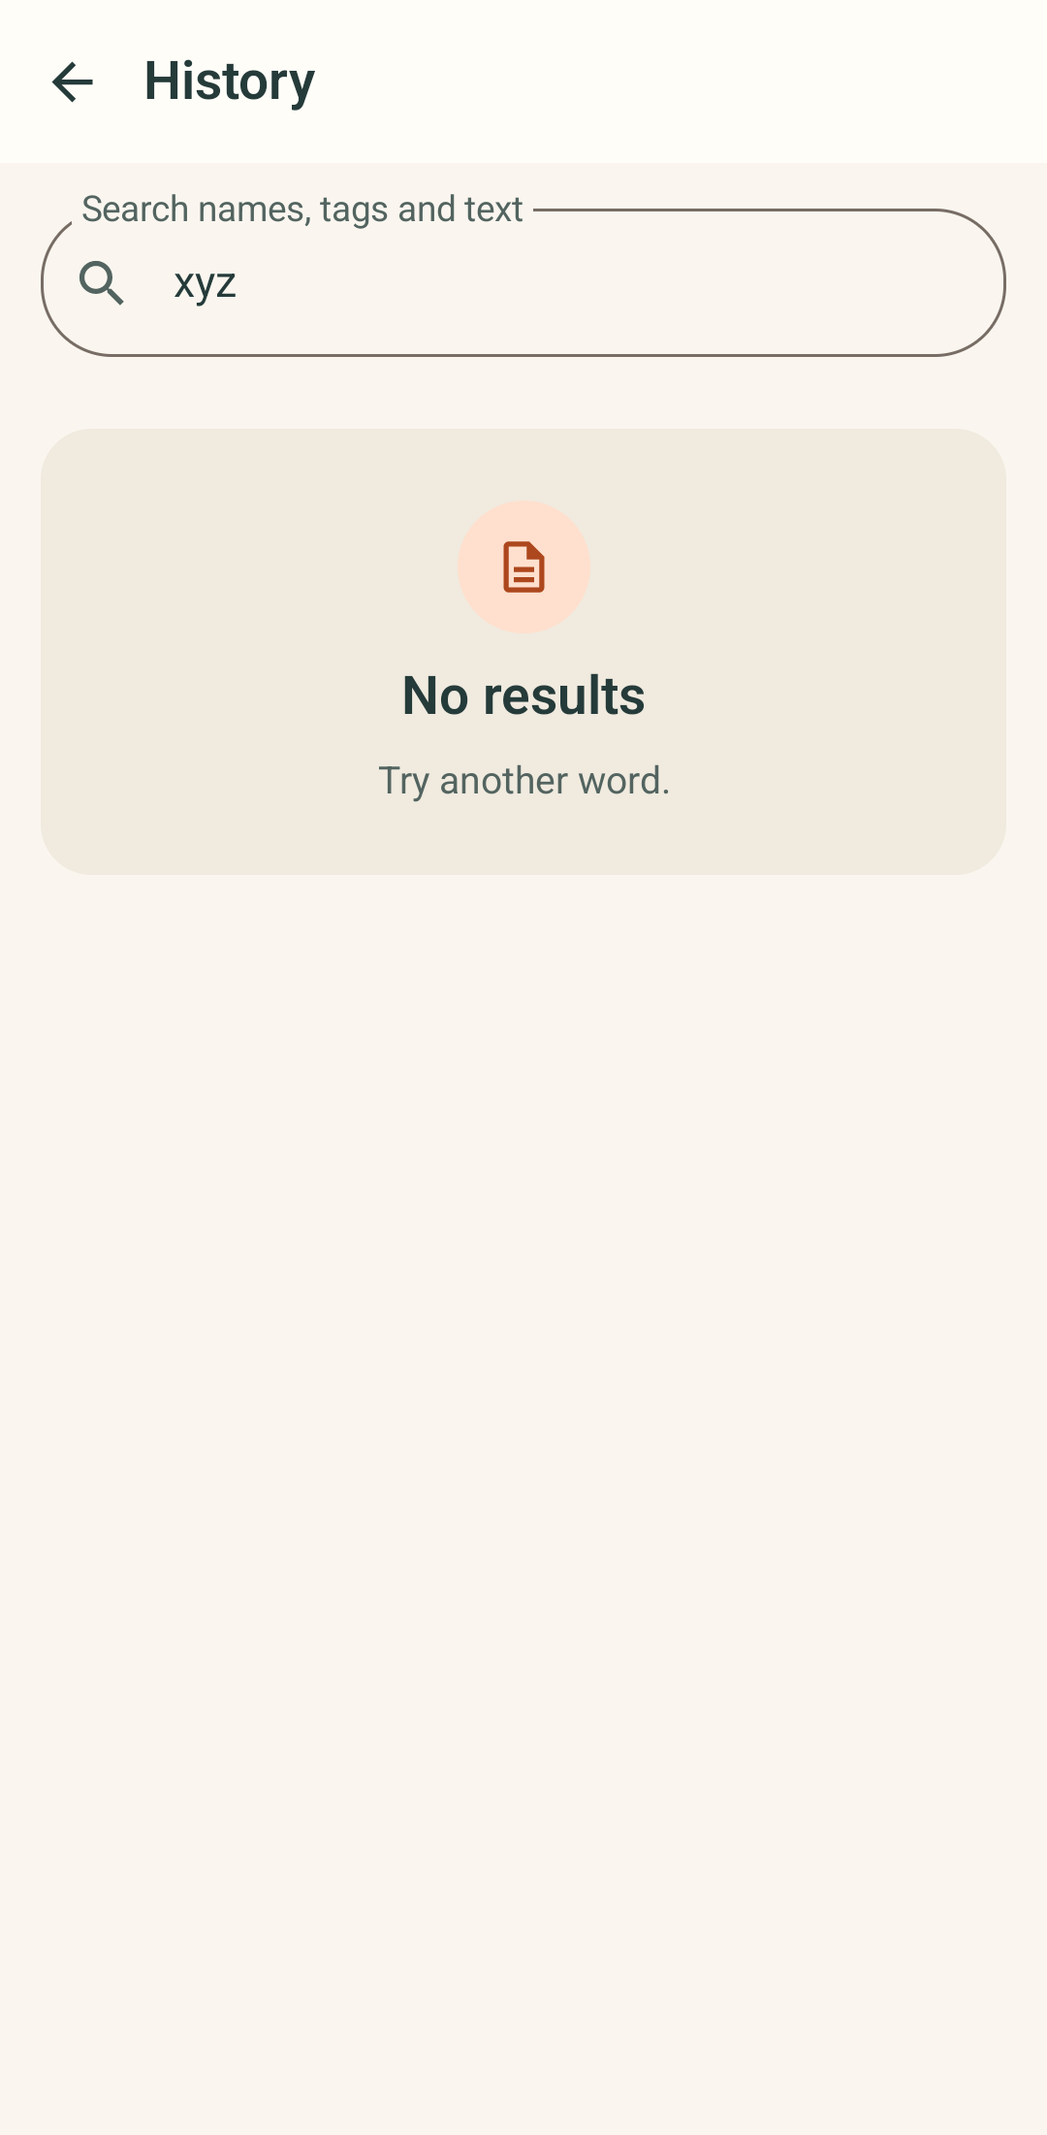
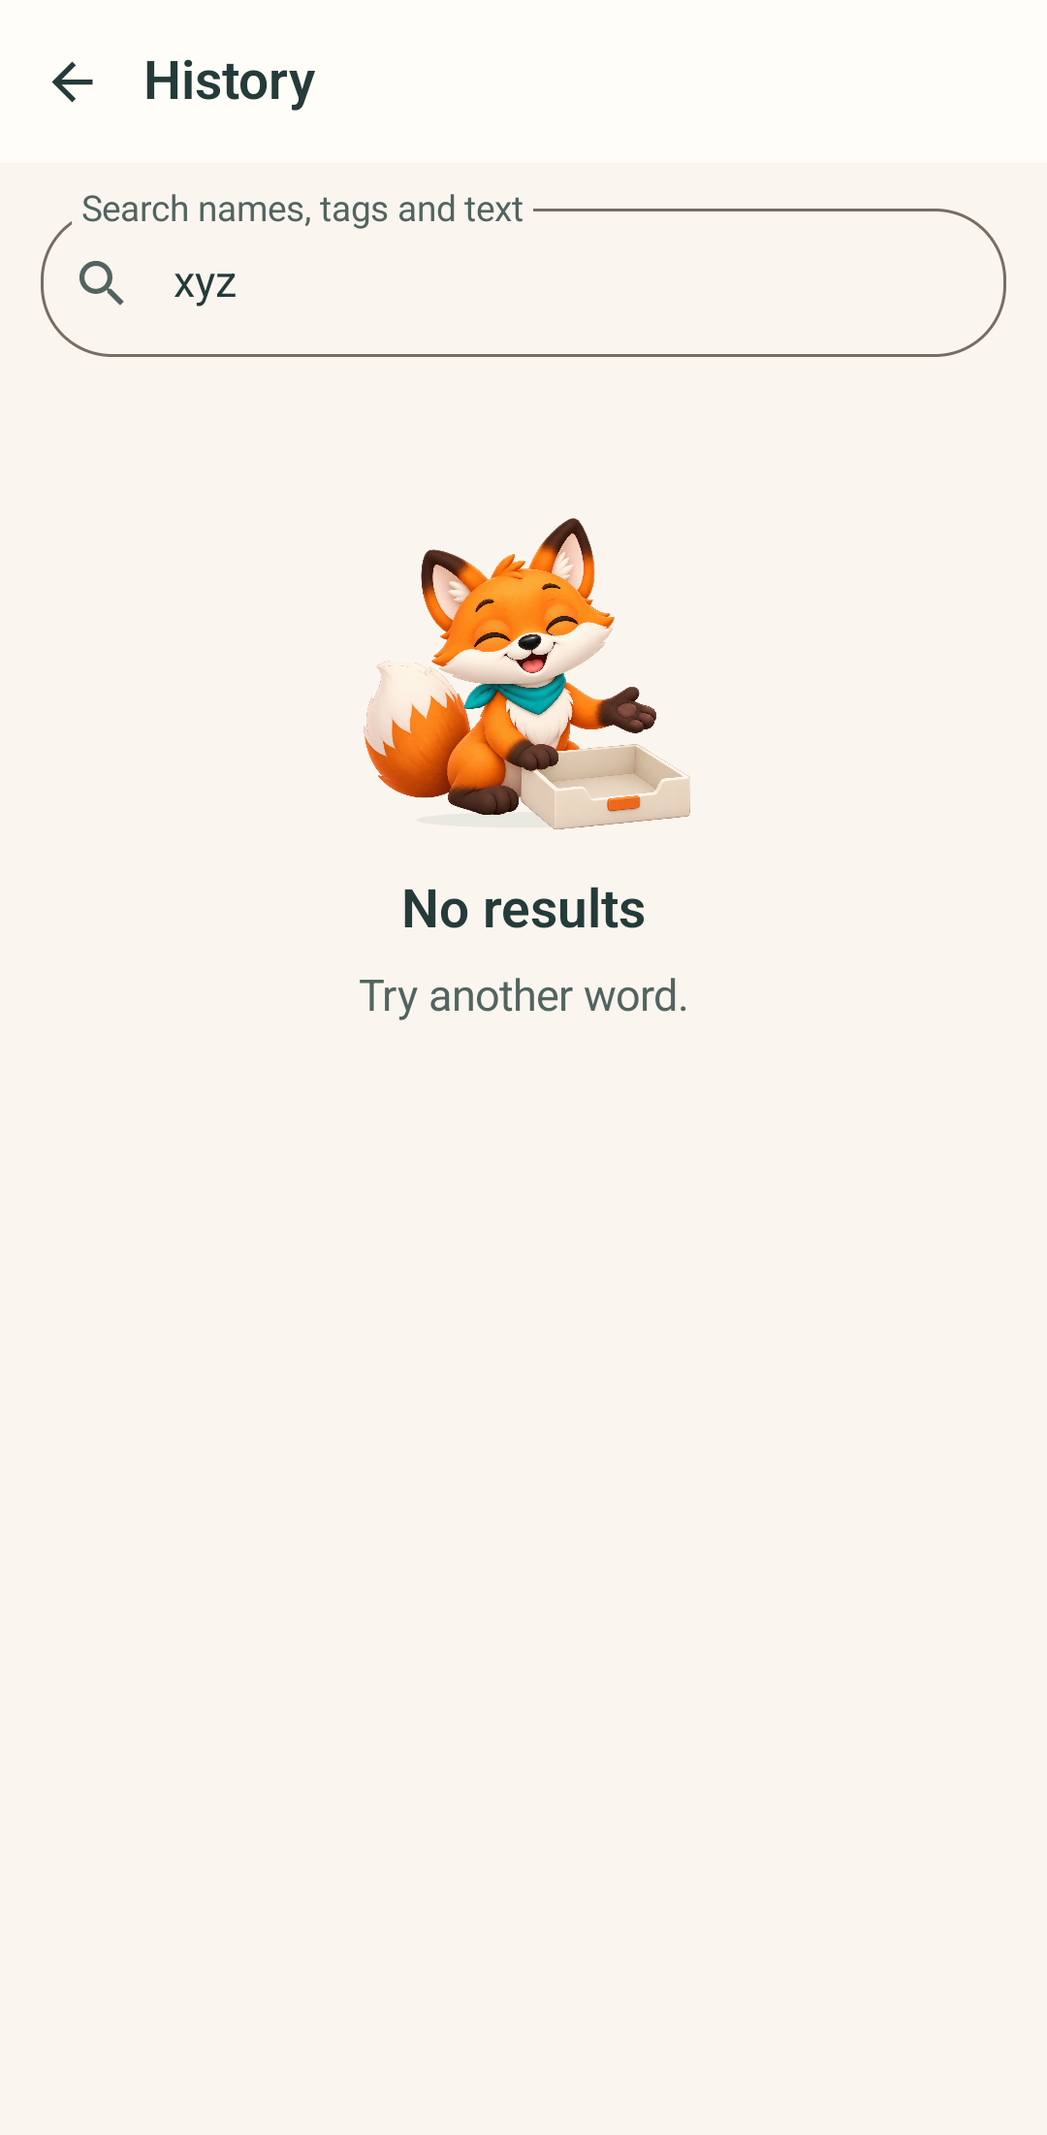
feat(history): lighten empty library and search states

Changed region(s): [[0.3361, 0.2163, 0.6722, 0.4325], [0.3667, 0.4634, 0.6417, 0.4943]]

diff --git a/docs/design/visual-recovery/evidence/review.html b/docs/design/visual-recovery/evidence/review.html
@@ -25,7 +25,7 @@
   <nav aria-label="Ir para tela">
     <a href="#home">Home</a><a href="#large-type">Fonte 200%</a><a href="#review">Revisão</a><a href="#crop">Recorte</a>
     <a href="#export">Exportação</a><a href="#progress">Progresso</a><a href="#success">Sucesso</a>
-    <a href="#onboarding">Introdução</a><a href="#ocr">OCR</a><a href="#history">Histórico</a>
+    <a href="#onboarding">Introdução</a><a href="#ocr">OCR</a><a href="#history">Histórico</a><a href="#search-empty">Busca vazia</a>
     <a href="#settings">Configurações</a><a href="#launcher">Ícone</a>
   </nav>
   <section id="home"><h2>Home com documento</h2><div class="pair"><figure><figcaption>Anterior</figcaption><img src="../../evidence/home-recent.png" alt="Home anterior"></figure><figure><figcaption>Atual</figcaption><img src="home-recent.png" alt="Home atual com raposa aprovada"></figure></div></section>
@@ -37,7 +37,8 @@
   <section id="success"><h2>Exportação concluída</h2><div class="pair"><figure><figcaption>Anterior</figcaption><img src="../../evidence/export-success.png" alt="Sucesso anterior"></figure><figure><figcaption>Atual</figcaption><img src="export-success.png" alt="Sucesso atual"></figure></div></section>
   <section id="onboarding"><h2>Introdução</h2><div class="pair"><figure><figcaption>Anterior</figcaption><img src="../../evidence/onboarding.png" alt="Introdução anterior"></figure><figure><figcaption>Atual · escanear</figcaption><img src="onboarding.png" alt="Introdução atual com raposa e folha integradas"></figure><figure><figcaption>Atual · revisar</figcaption><img src="onboarding-two.png" alt="Segunda página da introdução"></figure><figure><figcaption>Atual · guardar</figcaption><img src="onboarding-three.png" alt="Terceira página da introdução"></figure><figure><figcaption>Atual · fonte 200%</figcaption><img src="onboarding-200.png" alt="Primeira página da introdução com fonte ampliada a 200%"></figure></div></section>
   <section id="ocr"><h2>OCR em andamento</h2><div class="pair"><figure><figcaption>Anterior</figcaption><img src="../../evidence/ocr-loading.png" alt="OCR anterior"></figure><figure><figcaption>Atual</figcaption><img src="ocr-loading.png" alt="OCR atual"></figure></div></section>
-  <section id="history"><h2>Histórico</h2><div class="pair"><figure><figcaption>Anterior</figcaption><img src="../../evidence/history.png" alt="Histórico anterior"></figure><figure><figcaption>Atual</figcaption><img src="history.png" alt="Histórico atual"></figure></div></section>
+  <section id="history"><h2>Histórico</h2><div class="pair"><figure><figcaption>Anterior</figcaption><img src="../../evidence/history.png" alt="Histórico anterior"></figure><figure><figcaption>Atual</figcaption><img src="history.png" alt="Histórico atual"></figure><figure><figcaption>Biblioteca vazia</figcaption><img src="history-empty.png" alt="Biblioteca vazia sem cartão de fundo"></figure></div></section>
+  <section id="search-empty"><h2>Busca sem resultados</h2><div class="pair"><figure><figcaption>Anterior</figcaption><img src="../../evidence/search-empty.png" alt="Busca vazia anterior com cartão"></figure><figure><figcaption>Atual</figcaption><img src="search-empty.png" alt="Busca vazia atual com raposa e texto no fundo"></figure></div></section>
   <section id="settings"><h2>Configurações</h2><div class="pair"><figure><figcaption>Anterior</figcaption><img src="../../evidence/settings.png" alt="Configurações anteriores"></figure><figure><figcaption>Atual</figcaption><img src="settings.png" alt="Configurações atuais"></figure></div></section>
   <section id="launcher"><h2>Ícone em máscaras e tamanhos</h2><div class="pair"><figure><figcaption>Anterior</figcaption><img src="../../evidence/launcher-masks.png" alt="Ícone anterior em máscaras"></figure><figure><figcaption>Atual</figcaption><img src="launcher-masks.png" alt="Ícone atual em máscaras"></figure></div></section>
   <p>As demais capturas e o <a href="mascot-motion-v1.mp4">clipe da raposa</a> ficam neste diretório. Confira os limites na <a href="../VALIDATION_MATRIX.md">matriz de validação</a>.</p>

diff --git a/feature-history/src/main/java/com/soturine/replicascan/feature/history/HistoryScreen.kt b/feature-history/src/main/java/com/soturine/replicascan/feature/history/HistoryScreen.kt
@@ -54,6 +54,7 @@ import androidx.compose.ui.res.pluralStringResource
 import androidx.compose.ui.res.stringResource
 import androidx.compose.ui.semantics.contentDescription
 import androidx.compose.ui.semantics.semantics
+import androidx.compose.ui.text.style.TextAlign
 import androidx.compose.ui.text.style.TextOverflow
 import androidx.compose.ui.unit.dp
 import com.soturine.replicascan.core.common.model.ScanDocument
@@ -62,6 +63,7 @@ import com.soturine.replicascan.core.ui.component.AsyncUriImage
 import com.soturine.replicascan.core.ui.component.DocumentListItem
 import com.soturine.replicascan.core.ui.component.EmptyStateCard
 import com.soturine.replicascan.core.ui.component.ReplicaScanContent
+import com.soturine.replicascan.core.ui.component.ReplicaScanMascot
 import com.soturine.replicascan.core.ui.component.ReplicaScanMascotState
 import com.soturine.replicascan.core.ui.component.ReplicaScanPrimaryButton
 import com.soturine.replicascan.core.ui.component.ReplicaScanSecondaryButton
@@ -118,18 +120,10 @@ fun HistoryScreen(
             if (state.isLoaded && state.scans.isEmpty()) {
                 item(key = "empty") {
                     ReplicaScanContent(modifier = Modifier.padding(top = 16.dp)) {
-                        if (state.query.isBlank()) {
-                            EmptyStateCard(
-                                title = stringResource(R.string.history_empty_title),
-                                message = stringResource(R.string.history_empty_message),
-                                mascotState = ReplicaScanMascotState.Empty,
-                            )
-                        } else {
-                            EmptyStateCard(
-                                title = stringResource(R.string.history_no_results_title),
-                                message = stringResource(R.string.history_no_results_message),
-                            )
-                        }
+                        HistoryEmptyState(
+                            title = stringResource(if (state.query.isBlank()) R.string.history_empty_title else R.string.history_no_results_title),
+                            message = stringResource(if (state.query.isBlank()) R.string.history_empty_message else R.string.history_no_results_message),
+                        )
                     }
                 }
             }
@@ -156,6 +150,20 @@ fun HistoryScreen(
                 }
             }
         }
+    }
+}
+
+@Composable
+private fun HistoryEmptyState(title: String, message: String) {
+    Column(
+        modifier = Modifier.fillMaxWidth().padding(top = 28.dp, bottom = 24.dp),
+        horizontalAlignment = Alignment.CenterHorizontally,
+        verticalArrangement = Arrangement.spacedBy(12.dp),
+    ) {
+        ReplicaScanMascot(ReplicaScanMascotState.Empty, size = 136.dp)
+        Text(title, style = MaterialTheme.typography.titleLarge, textAlign = TextAlign.Center)
+        Text(message, style = MaterialTheme.typography.bodyLarge,
+            color = MaterialTheme.colorScheme.onSurfaceVariant, textAlign = TextAlign.Center)
     }
 }
 

diff --git a/app/src/androidTest/java/com/soturine/replicascan/RebrandVisualTest.kt b/app/src/androidTest/java/com/soturine/replicascan/RebrandVisualTest.kt
@@ -91,7 +91,7 @@ class RebrandVisualTest {
                                 isExporting = screen == "export-progress", message = when(screen) { "export-error" -> ExportMessage.WRITE_FAILED; "export-library-warning" -> ExportMessage.LIBRARY_UPDATE_FAILED; else -> null },
                                 exportedFiles = if (screen == "export-success" || screen == "export-library-warning") listOf(ExportedFile("Caderno de ideias.pdf", "content://fixture", "application/pdf", 1024)) else emptyList()),
                                 {}, {}, {}, {}, {}, {}, {}, {})
-                            "history", "search-empty" -> HistoryScreen(HistoryUiState(true, if (screen == "search-empty") "xyz" else "", if (screen == "history") listOf(scan) else emptyList()), {}, {}, {})
+                            "history", "history-empty", "search-empty" -> HistoryScreen(HistoryUiState(true, if (screen == "search-empty") "xyz" else "", if (screen == "history") listOf(scan) else emptyList()), {}, {}, {})
                             "detail" -> ScanDetailScreen(scan, true, {}, {}, {}, {}, {}, {})
                             "settings" -> SettingsScreen(SettingsUiState(), "", {}, {}, {}, {}, {}, {}, {})
                             "about" -> AboutScreen("candidate", {}, {})
@@ -101,7 +101,7 @@ class RebrandVisualTest {
             }
         }
         val screens = listOf("onboarding", "home-empty", "home-recent", "review", "crop", "filters", "ocr-loading", "ocr-ready", "ocr-empty",
-            "export", "export-jpg", "export-png", "export-progress", "export-error", "export-success", "export-library-warning", "history", "search-empty", "detail", "settings", "about")
+            "export", "export-jpg", "export-png", "export-progress", "export-error", "export-success", "export-library-warning", "history", "history-empty", "search-empty", "detail", "settings", "about")
         for (name in screens) {
             rule.runOnIdle { screen = name }
             // URI decoding runs on IO; allow it to complete before the capture.

diff --git a/README.md b/README.md
@@ -27,7 +27,7 @@ Não há conta, backend, sincronização ou upload obrigatório de documentos. C
 
 ## Redesign e evidência
 
-A base da v0.4.1 traz papel marfim, tinta petróleo e terracota, revisão de telas, crop com cantos independentes e exportação com nome de arquivo, progresso e recuperação persistente. O visual do ciclo anterior foi rejeitado pelo proprietário. Um novo master e sete poses baseados na raposa da v0.4.0 receberam aceite como arte estática. A pose de atenção teve patas extras corrigidas e um rig candidato com camadas independentes foi capturado no Android. A Home integra a raposa à cena de papel e prioriza Escanear inclusive com fonte 200%; a introdução apresenta três cenas abertas de folha e raposa. A exportação conecta prévia real e raposa em preparo, progresso, sucesso e erro. Revisão, recorte e filtros compartilham a luz e a profundidade do papel sem mudar os controles de edição; OCR reúne o texto selecionável em uma folha. Detalhe prioriza a página única e configurações usam grupos leves. A opção 4 foi escolhida como candidata final do ícone; animação e conjunto das telas continuam sem aceite final.
+A base da v0.4.1 traz papel marfim, tinta petróleo e terracota, revisão de telas, crop com cantos independentes e exportação com nome de arquivo, progresso e recuperação persistente. O visual do ciclo anterior foi rejeitado pelo proprietário. Um novo master e sete poses baseados na raposa da v0.4.0 receberam aceite como arte estática. A pose de atenção teve patas extras corrigidas e um rig candidato com camadas independentes foi capturado no Android. A Home integra a raposa à cena de papel e prioriza Escanear inclusive com fonte 200%; a introdução apresenta três cenas abertas de folha e raposa. A exportação conecta prévia real e raposa em preparo, progresso, sucesso e erro. Revisão, recorte e filtros compartilham a luz e a profundidade do papel sem mudar os controles de edição; OCR reúne o texto selecionável em uma folha. Histórico vazio e busca sem resultados mostram a raposa sem cartão pesado. Detalhe prioriza a página única e configurações usam grupos leves. A opção 4 foi escolhida como candidata final do ícone; animação e conjunto das telas continuam sem aceite final.
 
 Veja a [auditoria de recuperação visual](docs/design/visual-recovery/AUDIT.md), a [prancha das poses](docs/design/visual-recovery/candidates/review.html), o [clipe e as capturas Android atuais](docs/design/visual-recovery/evidence/README.md), os [novos ícones candidatos](docs/design/visual-recovery/icon-candidates/index.html), a [revisão por tela](docs/design/visual-recovery/SCREEN_REVIEW.md) e a [matriz de validação](docs/design/visual-recovery/VALIDATION_MATRIX.md). O material novo usa estados injetados e documento sintético; não substitui QA físico, TalkBack humano, revisão linguística nativa ou aceite final.
 

diff --git a/docs/design/visual-recovery/SCREEN_REVIEW.md b/docs/design/visual-recovery/SCREEN_REVIEW.md
@@ -15,7 +15,7 @@ automaticamente todas as telas, o movimento ou a release.
 | OCR carregando, pronto e vazio | Parágrafos ficam em uma folha selecionável, com cópia e idioma preservados. Carregamento e vazio mantêm a raposa; estados de modelo e seleção precisam inspeção com OCR real e TalkBack. | Capturado com estado injetado; fluxo real pendente |
 | Exportação: PDF/JPG/PNG | Prévia, quantidade de páginas e formato atual agora formam uma superfície única; nome, qualidade e tamanho continuam editáveis e progressivos. Estado escuro com fonte 200% exige rolagem para opções inferiores. | Implementado; capturas API 34; aceite pendente |
 | Exportação: progresso, sucesso, erro | A mesma folha real e a raposa acompanham preparo, gravação, sucesso e recuperação, com pose articulada conforme o estado. Sucesso identifica o arquivo e erro preserva opções de nova tentativa. | Capturado com estado injetado; exportação real/aceite pendentes |
-| Histórico, busca, detalhe | Uma biblioteca com só um item deixa espaço livre. Detalhe amplia a página única e mantém a grade em lotes; exportar, editar, favorito, excluir e abrir OCR preservados. Busca e ações documentais devem ser exercitadas em aparelho. | Detalhe recapturado; interação pendente |
+| Histórico, busca, detalhe | Uma biblioteca com só um item deixa espaço livre. Biblioteca vazia e busca sem resultado mostram a pose vazia com texto direto no fundo, sem cartão pesado. Detalhe amplia a página única e mantém a grade em lotes; exportar, editar, favorito, excluir e abrir OCR preservados. Busca e ações documentais devem ser exercitadas em aparelho. | Vazio e busca recapturados; interação pendente |
 | Configurações, idioma, sobre | Grupos em fundo contínuo e divisórias leves tiram o aspecto de cartões repetidos. Opções e alvos de toque preservados. Validar todos os idiomas, RTL e fonte ampliada. | Configurações recapturadas; revisão linguística/QA pendentes |
 | Ícone adaptativo | A opção 4 equilibra rosto e folha com cantos e linha de escaneamento. Foreground adaptativo e vetor temático foram instalados no APK debug; capturas do launcher e de 24–108 dp estão em `icon-candidates/`. | Proprietário escolheu manter como candidato final; teste físico e aceite do conjunto pendentes |
 | Site | Capturas de Home e opções de exportação atualizadas. | Implementado; gate local do site passou, publicação remota pendente |

diff --git a/docs/design/visual-recovery/VALIDATION_MATRIX.md b/docs/design/visual-recovery/VALIDATION_MATRIX.md
@@ -6,6 +6,7 @@
 | Movimento sem pops/cortes | poses inteiras Compose; atlas 3×3 removido | teste Android verifica movimento e redução; articulação independente não implementada | `evidence/mascot-motion-v1.mp4` e dois frames Android | proprietário | PARCIAL, ACEITE PENDENTE |
 | Home/Onboarding/Export e demais telas | Home amplia a mascote e libera largura para texto; introdução integra três poses à folha e compacta a cena em fonte 200%; opções de exportação reúnem prévia/páginas/formato; progresso inclui página real | `MainActivityTest` (4 testes) e `renderScreenMatrix` passaram no emulador API 34 com fixture sintética; splash corrigida após o primeiro teste revelar falha de recurso | `evidence/review.html` compara capturas atuais e baseline; fluxo físico não foi exercitado | proprietário | PARCIAL, ACEITE PENDENTE |
 | Ícone adaptativo opção 4 | Arte com duas patas, folha intermediária e cantos/linha de escaneamento; foreground adaptativo e vetor temático no APK debug | `IconCandidateTest` e `launcherMasksAndSizes` passaram no emulador API 34; recurso real conferido em 24–108 dp | `icon-candidates/candidate-4-android.png`, `launcher-installed.png` e `launcher-masks.png` | proprietário | CANDIDATO FINAL ESCOLHIDO, TESTE FÍSICO PENDENTE |
+| Histórico vazio e busca sem resultado | Pose vazia e mensagens no fundo, sem cartão; busca/lista/callbacks mantidos | `:feature-history:testDebugUnitTest`, lint e `renderScreenMatrix` passaram; consulta real não exercitada | `evidence/history-empty.png` e `search-empty.png` | proprietário | CAPTURADO, INTERAÇÃO PENDENTE |
 | Crop sequencial e pixels exportados | `CropScreen`, `QuadEditorOverlay`, `CropExportIntegrationTest` | API 34 passou no ciclo anterior; revalidar após mudança | `../evidence/crop.png` baseline | teste/inspeção | PRESERVAR |
 | Export parcial de histórico | `ExportViewModelTest` | 3 testes unitários passaram no ciclo anterior | `../evidence/export-library-warning.png` baseline | teste/inspeção | PRESERVAR |
 | UI 200%, RTL, landscape, compacto | Home consulta `LocalDensity` efetivo e omite arte com fonte ampliada | API 34: matriz de tela passou; não cobre interações TalkBack | `evidence/home-dark-200.png`, `export-dark-200.png` e `review-dark-200-rtl.png`; largo ainda usa baseline | QA humano | PARCIAL |

diff --git a/CHANGELOG.md b/CHANGELOG.md
@@ -11,6 +11,7 @@ Este projeto segue Semantic Versioning e recomenda Conventional Commits no fluxo
 - Filtros compartilham o mesmo palco de papel da revisão; OCR apresenta todos os parágrafos em uma folha selecionável, preservando cópia e escolha de idioma.
 - Quatro candidatos de ícone foram renderizados no Android em 24–108 dp; a opção 4, escolhida para refinamento, combina rosto, folha e sinais de escaneamento. Ela foi instalada no APK debug com foreground adaptativo e vetor temático, capturada no launcher e segue pendente de aceite final.
 - Introdução recomposta como cena aberta de folha e raposa nas três páginas, sem cartão isolado e com ilustração menor para fonte 200%; o botão permanece visível. A splash usa a arte raster do ícone candidato, evitando a falha ao carregar o novo foreground adaptativo.
+- Biblioteca vazia e busca sem resultados deixam de usar um cartão grande e mostram a pose vazia com a mensagem diretamente no fundo.
 - Detalhe amplia o documento quando há uma única página; configurações usam grupos com divisórias leves em vez de superfícies arredondadas, mantendo opções e ações.
 - Exportação recomposta em quatro cenas ligadas à prévia real do documento: preparo com opções progressivas, trabalho com progresso, sucesso com arquivo e ações, erro com recuperação. A folha mantém iluminação no tema escuro e forma pilha quando há várias páginas; callbacks e estados de gravação existentes foram preservados.
 - Atlas deformado substituído por poses completas em Compose, com movimento discreto, respeito ao lifecycle/redução de movimento e clipe de frames Android. Exportação em andamento voltou a mostrar prévia e identificação da página.

diff --git a/docs/design/visual-recovery/evidence/README.md b/docs/design/visual-recovery/evidence/README.md
@@ -22,6 +22,8 @@ renderização desses estados; o gesto de recorte ainda requer QA físico.
 dos filtros e o agrupamento selecionável dos parágrafos do OCR.
 `detail.png` e `settings.png` mostram a página única ampliada e grupos de
 preferências sem cartões repetidos, também recapturados em 2026-10-13.
+`history-empty.png` e `search-empty.png` mostram os dois vazios do Histórico
+sem cartões; as capturas usam estados injetados e não validam busca real.
 `launcher-masks.png` foi atualizado após instalar o ícone candidato 4 no APK
 debug; a comparação das quatro opções e o launcher real estão em
 [`icon-candidates/`](../icon-candidates/index.html).
